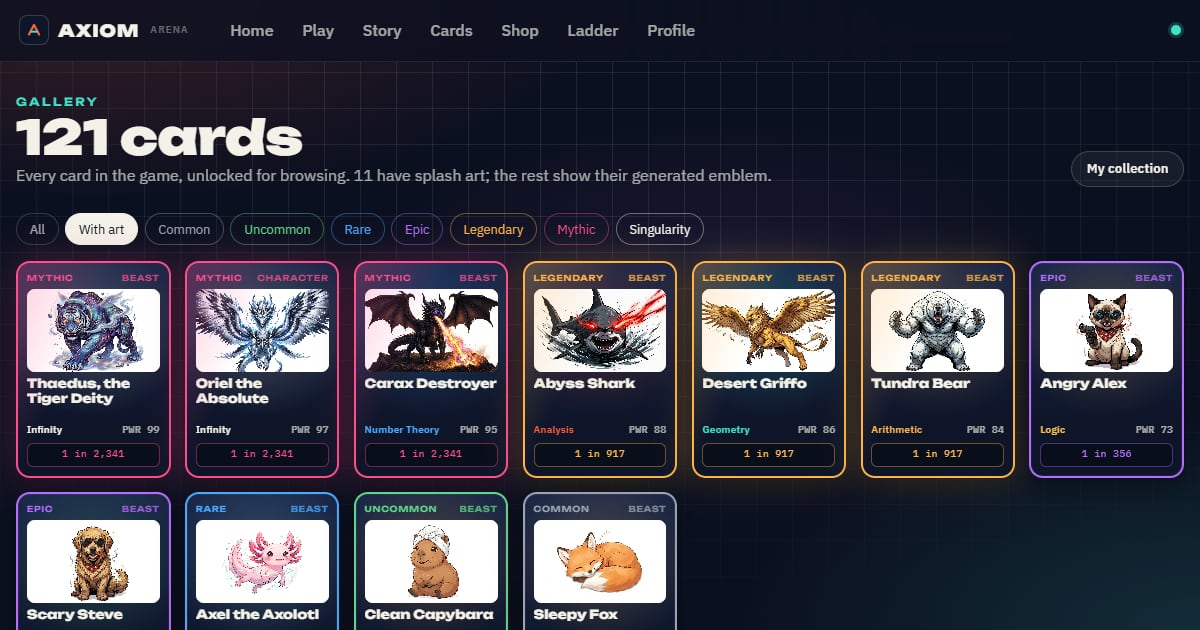
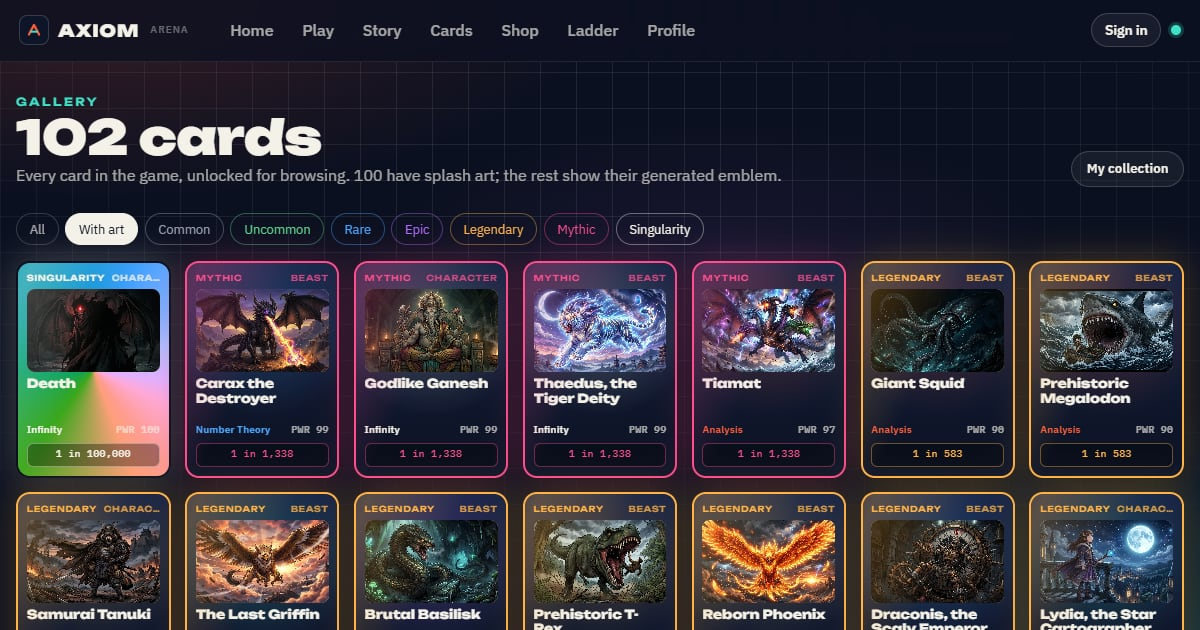
Prune unknown card ids from profiles on sign-in; refresh social preview

diff --git a/server/src/hub.ts b/server/src/hub.ts
@@ -4,8 +4,10 @@ import { Session } from './session';
 import { Room } from './room';
 import { identify, type AuthConfig } from './auth';
 import type { ProfileStore } from './store';
-import { reducer, createProfile, migrateProfile, monthKey, type ClientIntent, type Profile } from '../../src/engine/profile';
-import { PACKS, openPack, type PackId } from '../../src/engine/cards';
+import { reducer, createProfile, migrateProfile, monthKey, pruneUnknownCards, type ClientIntent, type Profile } from '../../src/engine/profile';
+import { CARDS, PACKS, openPack, type PackId } from '../../src/engine/cards';
+
+const KNOWN_CARDS: ReadonlySet<string> = new Set(CARDS.map((c) => c.id));
 import { mulberry32, newSeed, clamp } from '../../src/engine/rng';
 import { opponentForCasual, opponentForRanked } from '../../src/engine/bots';
 import { SEASON, seasonTimeLeft, rewardForElo } from '../../src/engine/season';
@@ -110,8 +112,9 @@ export class Hub {
     const loaded = await this.store.load(identity.id);
     let profile = loaded.profile;
     if (profile) {
-      const merged = reducer(profile, { type: 'applyServer', plusUntil: loaded.entitlements.plusUntil, coinGrants: loaded.entitlements.coinGrants });
-      if (merged && merged !== profile) { profile = merged; await this.store.save(identity.id, merged); }
+      let next = reducer(profile, { type: 'applyServer', plusUntil: loaded.entitlements.plusUntil, coinGrants: loaded.entitlements.coinGrants }) ?? profile;
+      next = pruneUnknownCards(next, KNOWN_CARDS);
+      if (next !== profile) { profile = next; await this.store.save(identity.id, next); }
     }
     session.profile = profile;
     session.send({ type: 'welcome', serverTime: Date.now(), profile, userId: identity.id, reqId: msg.reqId });

diff --git a/src/engine/profile.ts b/src/engine/profile.ts
@@ -306,6 +306,15 @@ export function reducer(state: Profile | null, action: Action): Profile | null {
   }
 }
 
+/** Drop collection entries and spotlight slots that point at cards no longer in the catalog (e.g. removed test art). */
+export function pruneUnknownCards(p: Profile, known: ReadonlySet<string>): Profile {
+  const stale = Object.keys(p.collection).some((id) => !known.has(id)) || p.spotlight.some((id) => !known.has(id));
+  if (!stale) return p;
+  const collection: Record<string, number> = {};
+  for (const [id, n] of Object.entries(p.collection)) if (known.has(id)) collection[id] = n;
+  return { ...p, collection, spotlight: p.spotlight.filter((id) => known.has(id)), updatedAt: Date.now() };
+}
+
 export const totalWins = (p: Profile) => p.casualWins + p.rankedWins;
 export const totalGames = (p: Profile) => p.casualWins + p.casualLosses + p.rankedWins + p.rankedLosses + p.draws;
 export const ownedCount = (p: Profile) => Object.values(p.collection).filter((n) => n > 0).length;
